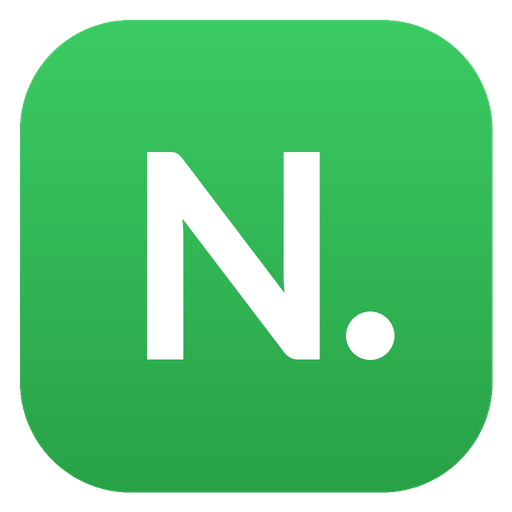
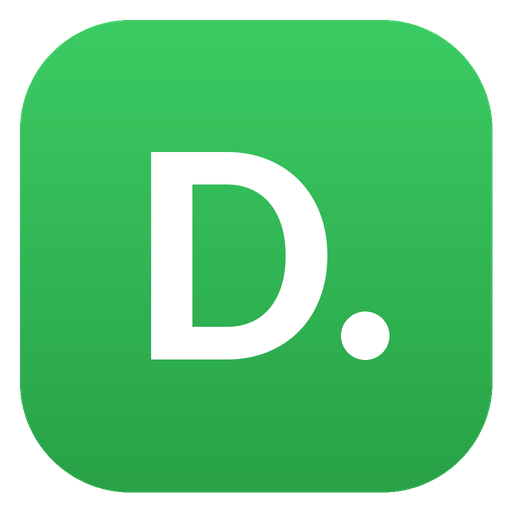
Cambia el nombre de la app a Daily y su icono
Claude-Session: https://claude.ai/code/session_012zKsg3jkawertsEiehHLhw

diff --git a/index.html b/index.html
@@ -6,13 +6,13 @@
 <meta name="apple-mobile-web-app-capable" content="yes">
 <meta name="mobile-web-app-capable" content="yes">
 <meta name="apple-mobile-web-app-status-bar-style" content="default">
-<title>Nutri · Calorías y macros</title>
[2 lines of base64/hex data omitted]
+<title>Daily · Calorías y macros</title>
[2 lines of base64/hex data omitted]
 <meta name="theme-color" content="#f5f5f7">
-<meta name="application-name" content="Nutri">
+<meta name="application-name" content="Daily">
 <link rel="manifest" href="manifest.webmanifest">
-<meta name="apple-mobile-web-app-title" content="Nutri">
+<meta name="apple-mobile-web-app-title" content="Daily">
 <style>
 :root{
   --bg:#f5f5f7; --card:#ffffff; --text:#1d1d1f; --muted:#86868b; --line:#e8e8ed;
@@ -469,7 +469,7 @@ label.bfield input{flex:1}
 
 <header class="top">
   <div class="top-in">
-    <div class="logo">Nutri<span>.</span></div>
+    <div class="logo">Daily<span>.</span></div>
     <div class="seg" id="viewSeg"><i class="pill"></i>
       <button data-view="hoy" class="on">Diario</button>
       <button data-view="hist">Historial</button>

diff --git a/sw.js b/sw.js
@@ -1,5 +1,5 @@
-// Nutri: funciona sin conexión y se actualiza sola cuando hay versión nueva
-const CACHE = 'nutri-v1';
+// Daily: funciona sin conexión y se actualiza sola cuando hay versión nueva
+const CACHE = 'daily-v2';
 const FILES = ['./', './index.html', './manifest.webmanifest', './icon-192.png', './icon-512.png', './icon-maskable-512.png'];
 self.addEventListener('install', e => { e.waitUntil(caches.open(CACHE).then(c => c.addAll(FILES))); self.skipWaiting(); });
 self.addEventListener('activate', e => { e.waitUntil(caches.keys().then(ks => Promise.all(ks.filter(k => k !== CACHE).map(k => caches.delete(k))))); self.clients.claim(); });
